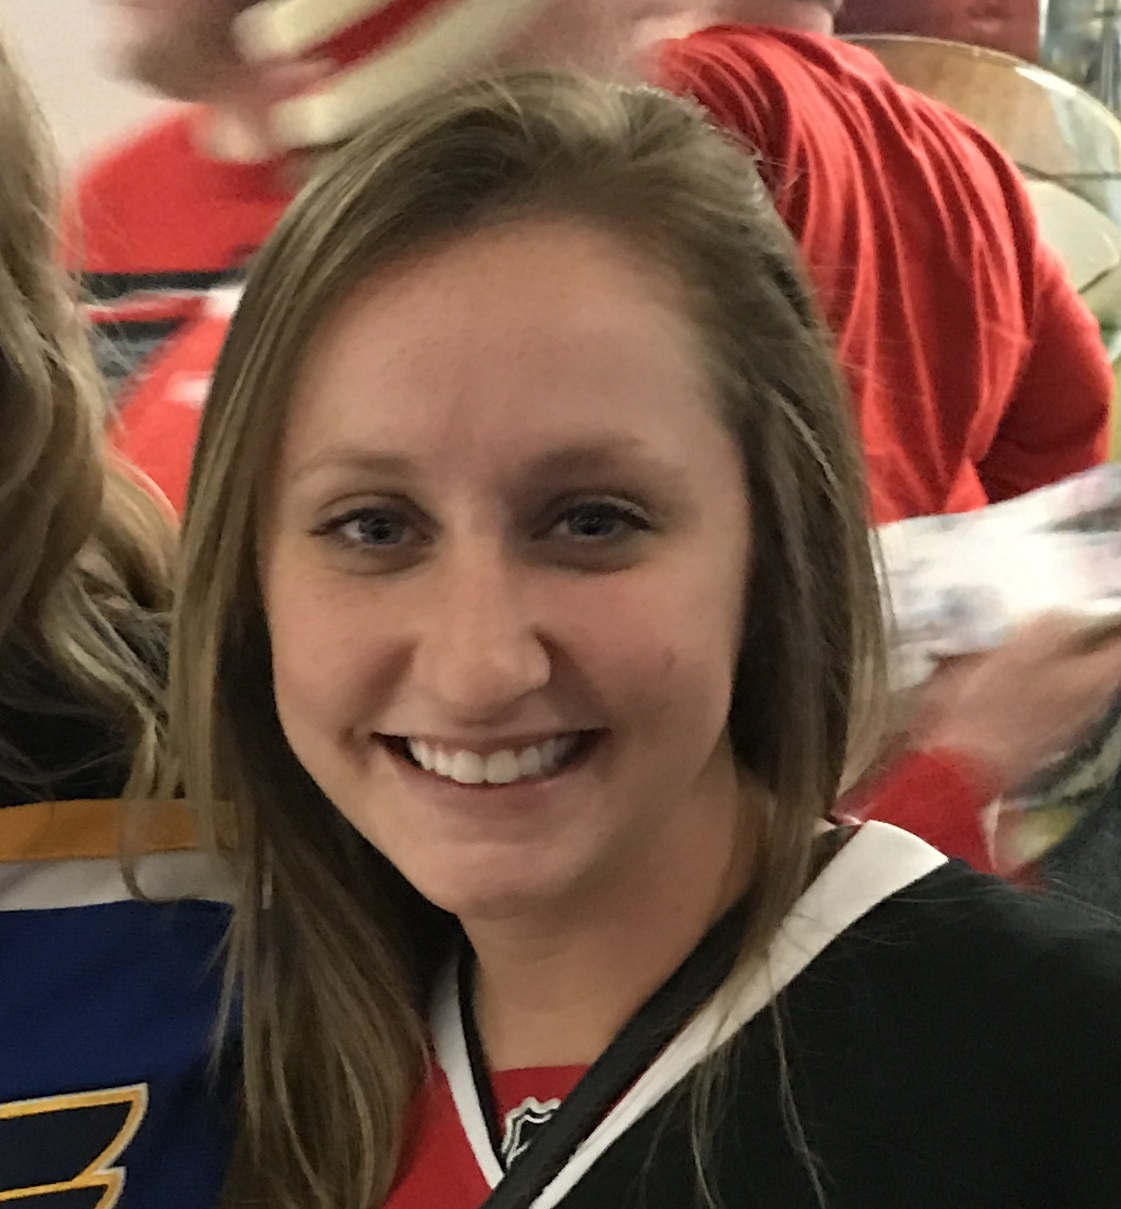
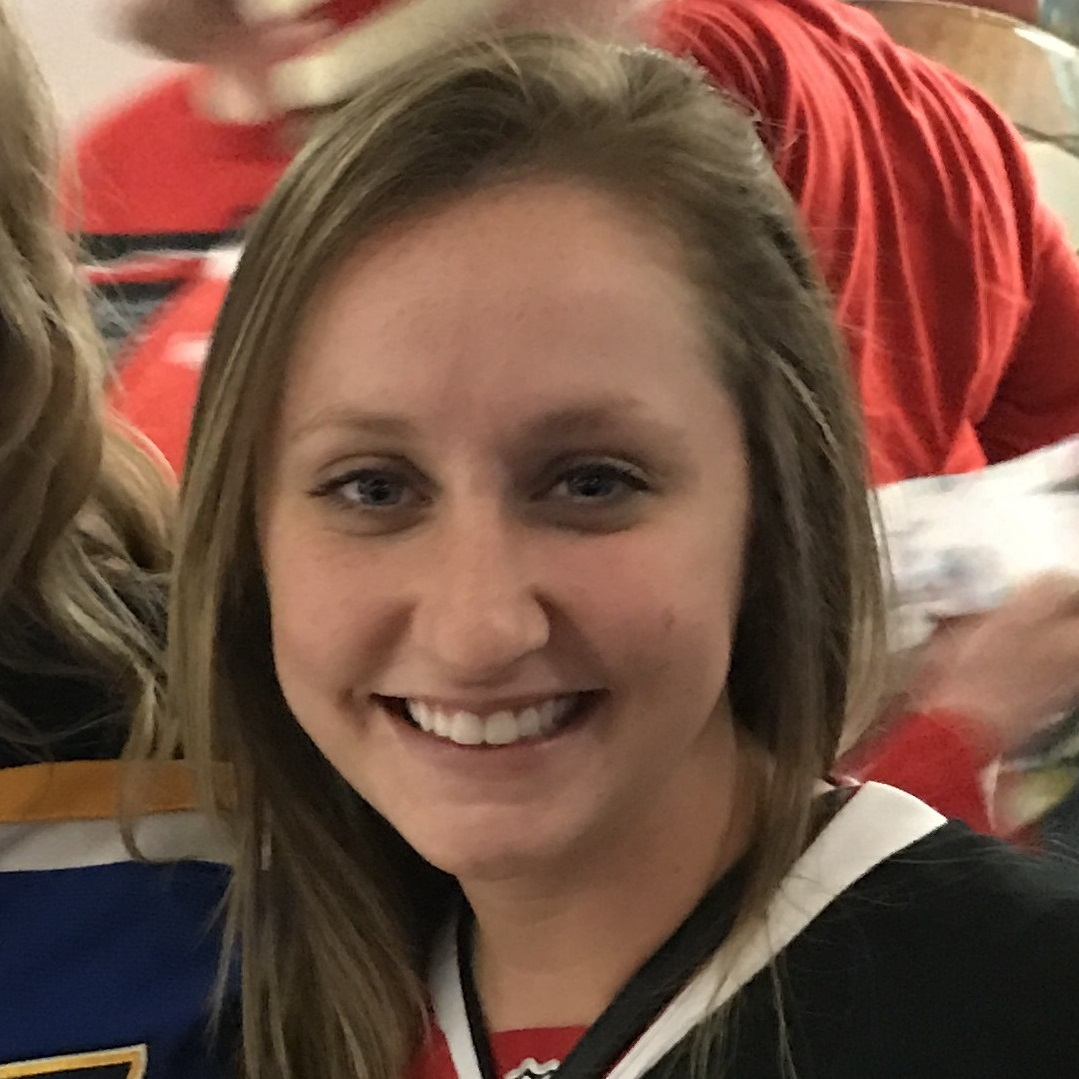
picture

diff --git a/index.html b/index.html
@@ -45,7 +45,7 @@
 
   <hr id="biobreak">
 
-      <img id="bio-image" src="../Basic-Portfolio/assets/images/ME.jpg" alt="Nicole" align="left" />
+      <img id="bio-image" src="../Basic-Portfolio/assets/images/ME.jpg" alt="Nicole" align="left" height="200" width="200"/>
 
       <p>Write a short paragraph or two about yourself, or use placeholder text from. Write a short paragrapext from Write a short paragraph or two about yourself, or use placeholder text from  or use placeholder text from Write a short paragraph or two about yourself, or use plaolder text from Write a short paragraph or two ab</p>
 
